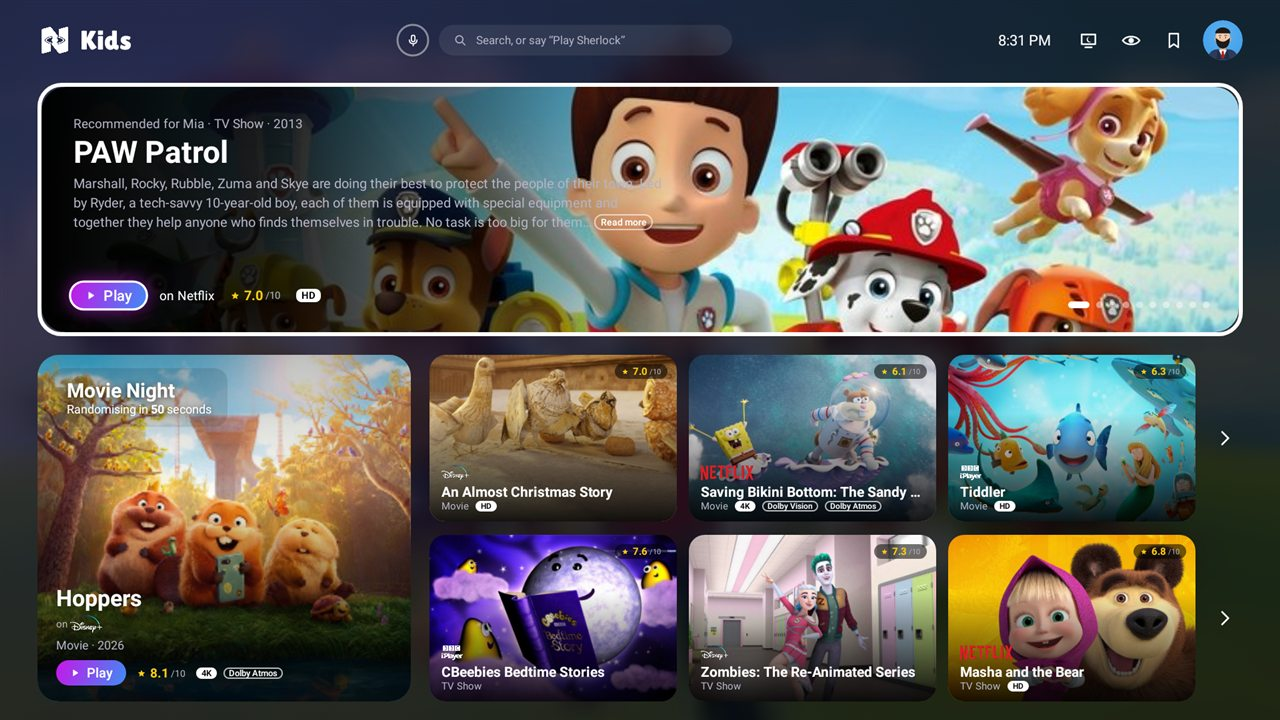
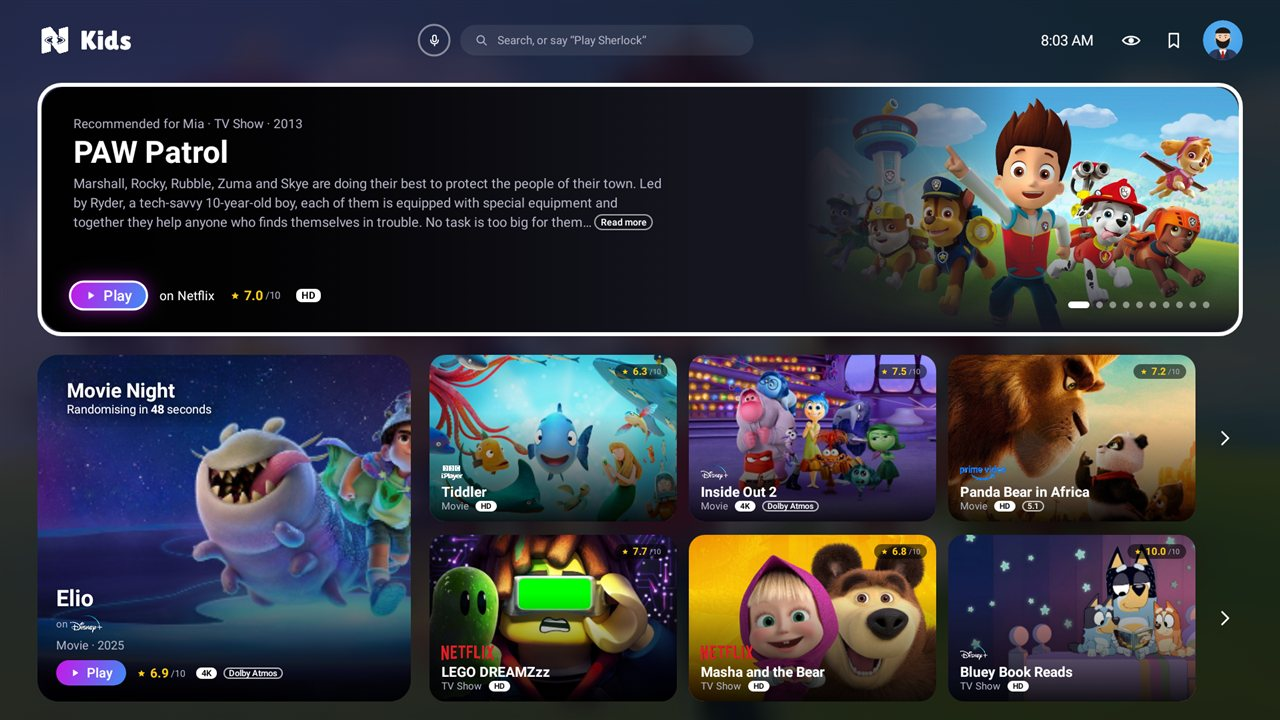
NitroVision TV Beta 1.8.2: trailers, voice search, button and menu edits; new app screenshots

diff --git a/index.html b/index.html
@@ -213,7 +213,7 @@
 
     <section class="products">
       <div class="product featured" id="tv-app">
-        <h2>NitroVision TV <span class="beta-tag">Beta 1.8.1</span></h2>
+        <h2>NitroVision TV <span class="beta-tag">Beta 1.8.2</span></h2>
         <p>For Google TV and Android TV. UK only during the beta.</p>
         <a class="btn" href="https://github.com/nitroxbs/nitrovision-website/releases/latest/download/nitrovision-tv.apk"><svg class="icon" aria-hidden="true"><use href="#i-download"/></svg>Get the app</a>
         <div class="dl-code">
@@ -251,7 +251,7 @@
 
     <div class="section-title"><h2>New in the app</h2></div>
     <section class="soon">
-      <img src="tv-idle.jpg" width="1280" height="720" loading="lazy" alt="The Idle screen: a painting fills the TV, with the time, weather, today's plans, bin day and a family to-do list with a QR code down the right.">
+      <img src="tv-idle.jpg" width="1280" height="720" loading="lazy" alt="The Idle screen: a painting fills the TV, with the time, weather, today's plans, bin day and a family to-do list with a QR code and its 4-digit code down the right.">
       <div>
         <span class="soon-tag">New in Beta 1.7.0</span>
         <h3>An Idle screen for your TV</h3>
@@ -379,9 +379,9 @@
         <div>
           <h3>What's new</h3>
           <ol class="timeline">
+            <li><span class="tag tv">APP</span><span><strong>Beta 1.8.2:</strong> Trailers, Voice search, Button and menu edits</span></li>
             <li><span class="tag addon">Add-on</span><span><strong>v1.15.0:</strong> Family page update, Trailer support</span></li>
             <li><span class="tag addon">Add-on</span><span><strong>v1.14.2:</strong> Usage stats page update</span></li>
-            <li><span class="tag addon">Add-on</span><span><strong>v1.14.1:</strong> Family catalogue edits, Age rating filter</span></li>
           </ol>
           <a class="see-all" href="updates.html">See all updates →</a>
         </div>

diff --git a/updates.html b/updates.html
@@ -35,6 +35,7 @@
     <h1>All updates</h1>
     <!-- Newest first. Add each release here and at the top of the home page's What's new (which shows only 3). -->
     <ol class="timeline">
+      <li><span class="tag tv">APP</span><span><strong>Beta 1.8.2:</strong> Trailers, Voice search, Button and menu edits</span></li>
       <li><span class="tag addon">Add-on</span><span><strong>v1.15.0:</strong> Family page update, Trailer support</span></li>
       <li><span class="tag addon">Add-on</span><span><strong>v1.14.2:</strong> Usage stats page update</span></li>
       <li><span class="tag addon">Add-on</span><span><strong>v1.14.1:</strong> Family catalogue edits, Age rating filter</span></li>
